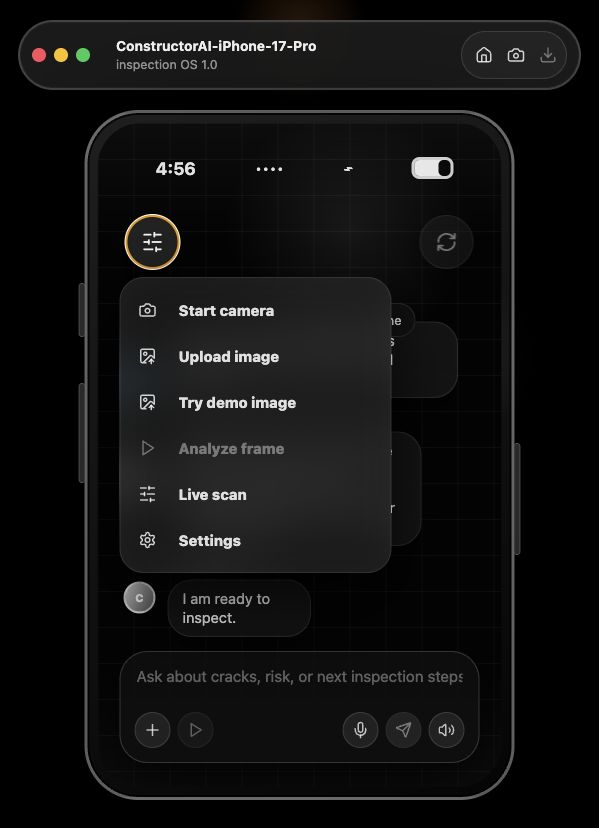
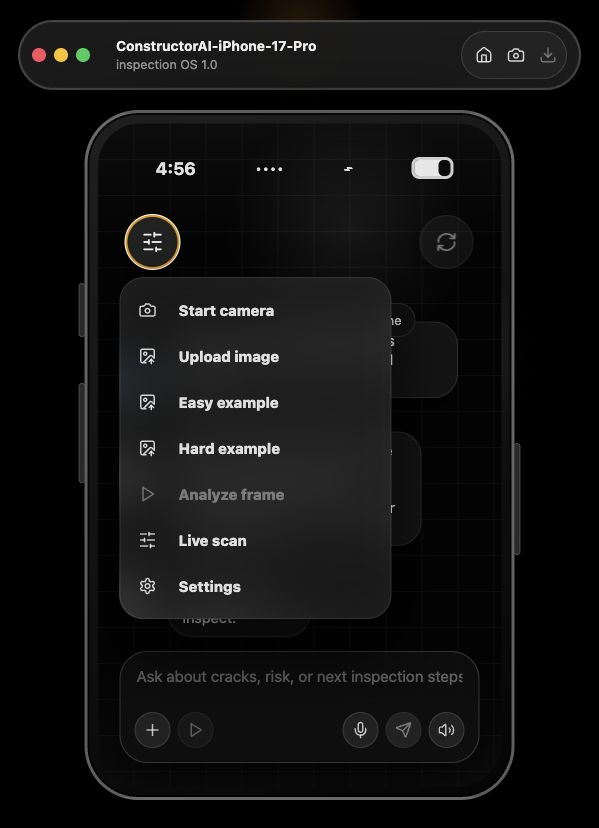
Add easy and hard web-sourced crack examples

diff --git a/frontend/src/App.tsx b/frontend/src/App.tsx
@@ -53,7 +53,8 @@ const copy = {
     readyAnswer: "I am ready to inspect.",
     startCamera: "Start camera",
     uploadImage: "Upload image",
-    tryDemo: "Try demo image",
+    easyExample: "Easy example",
+    hardExample: "Hard example",
     analyze: "Analyze frame",
     liveScan: "Live scan",
     settings: "Settings",
@@ -88,7 +89,8 @@ const copy = {
     readyAnswer: "Estoy listo para inspeccionar.",
     startCamera: "Iniciar camara",
     uploadImage: "Subir imagen",
-    tryDemo: "Probar imagen demo",
+    easyExample: "Ejemplo facil",
+    hardExample: "Ejemplo dificil",
     analyze: "Analizar imagen",
     liveScan: "Escaneo en vivo",
     settings: "Ajustes",
@@ -253,9 +255,9 @@ function App() {
     reader.readAsDataURL(file);
   };
 
-  const analyzeDemoImage = async () => {
+  const analyzeExampleImage = async (difficulty: "easy" | "hard") => {
     setToolsOpen(false);
-    const response = await fetch("/demo/crack-sample.jpg");
+    const response = await fetch(`/demo/${difficulty}-crack.jpg`);
     const blob = await response.blob();
     const reader = new FileReader();
     reader.onload = () => {
@@ -445,9 +447,13 @@ function App() {
                     setToolsOpen(false);
                   }} />
                 </label>
-                <button className="menu-row" onClick={() => void analyzeDemoImage()}>
+                <button className="menu-row" onClick={() => void analyzeExampleImage("easy")}>
                   <ImageUp size={18} />
-                  <span>{t.tryDemo}</span>
+                  <span>{t.easyExample}</span>
+                </button>
+                <button className="menu-row" onClick={() => void analyzeExampleImage("hard")}>
+                  <ImageUp size={18} />
+                  <span>{t.hardExample}</span>
                 </button>
                 <button className="menu-row" onClick={() => {
                   void analyzeFrame();

diff --git a/README.md b/README.md
@@ -14,9 +14,13 @@ Inspection tools tray:
 
 ![Construction for Newbies inspection tools tray](docs/screenshots/app-tools.png)
 
-Built-in demo detection:
+Built-in easy example detection:
 
-![Construction for Newbies demo crack detection](docs/screenshots/app-demo-detection.png)
+![Construction for Newbies easy crack detection](docs/screenshots/app-easy-detection.png)
+
+Built-in hard example detection:
+
+![Construction for Newbies hard crack detection](docs/screenshots/app-hard-detection.png)
 
 ## What this repo contains
 
@@ -120,7 +124,7 @@ VITE_API_BASE=http://127.0.0.1:8000 npm run dev
 1. Start the backend and frontend using the commands above.
 2. Confirm the app says `crack model online`.
 3. Tap the floating sliders icon to open the inspection tools tray.
-4. Choose `Try demo image` to prove the model works without needing a camera.
+4. Choose `Easy example` or `Hard example` to prove the model works without needing a camera.
 5. Choose `Start camera` for webcam inspection, or `Upload image` to analyze a photo.
 6. Use `Analyze frame` to run YOLO on the current camera frame.
 7. Enable `Live scan` to analyze the camera feed repeatedly.
@@ -150,7 +154,20 @@ Example questions:
 - Speaker icon: reads the latest answer aloud.
 - Home icon: clears the current inspection state.
 - Camera icon in the top bar: starts the camera.
-- `Try demo image`: loads a bundled real crack sample and runs the same YOLO detection pipeline.
+- `Easy example`: loads an obvious crack sample and runs the same YOLO detection pipeline.
+- `Hard example`: loads a more complex real-world crack sample and runs the same YOLO detection pipeline.
+
+## Bundled example images
+
+The app includes two web-sourced example images so users can verify the model immediately:
+
+- Easy example: `Retaining wall failure.jpeg` from Wikimedia Commons, courtesy of G.R. Fisher, U.S. Geological Survey.
+- Hard example: `Concrete wall cracking as its steel reinforcing cracks and swells 9061v.jpg` from Wikimedia Commons by JonRichfield.
+
+Sources:
+
+- https://commons.wikimedia.org/wiki/File:Retaining_wall_failure.jpeg
+- https://commons.wikimedia.org/wiki/File:Concrete_wall_cracking_as_its_steel_reinforcing_cracks_and_swells_9061v.jpg
 
 ## Camera access
 